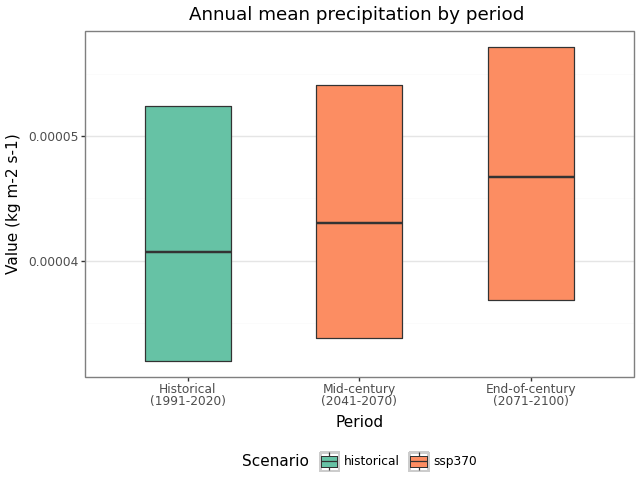
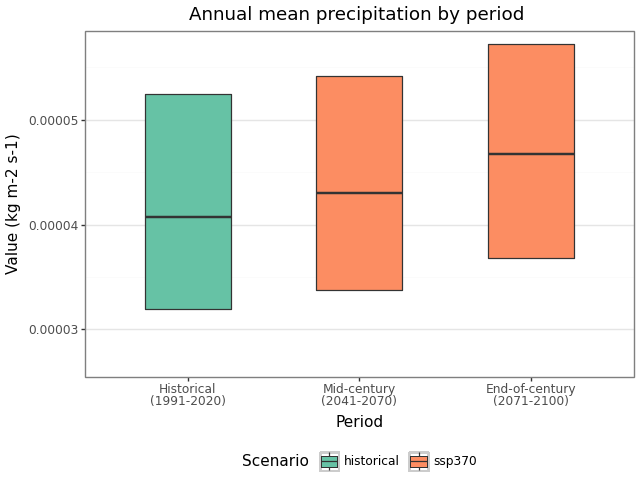
add ensemble statistics and change over models and update periodID values in netcdfs

diff --git a/calculate_model_ensemble_statistics_and_change.py b/calculate_model_ensemble_statistics_and_change.py
@@ -1,0 +1,216 @@
+import csv
+import matplotlib.pyplot as plt
+from pathlib import Path
+from glob import glob
+import xarray as xr
+from xclim import ensembles
+import yaml
+from KAPy.workflow.KAPy.save_change_to_netcdf import save_change_to_netcdf
+from KAPy.workflow.KAPy.plots import makeBoxplot
+
+
+def calculate_ensemble_mean(
+    indicator_id: str, scenario: str, ensemble_filename: str | Path, config: dict, CMIP_version: None | int = None
+):
+    current_dir = Path(__file__).parent
+    if "hist" not in scenario:
+        periods = [2, 3]
+        search_dir = current_dir / "KAPy/results/7.netcdf"
+        netcdf_files = glob(f"{search_dir}/**/{indicator_id}_{scenario}*.nc", recursive=True)
+    else:
+        periods = [1, 2, 3]
+        search_dir = current_dir / "KAPy/results/4.ensstats"
+
+        match CMIP_version:
+            case 6:
+                netcdf_files = glob(f"{search_dir}/**/{indicator_id}_CMIP6_{scenario}*.nc", recursive=True)
+            case 5:
+                netcdf_files = glob(f"{search_dir}/**/{indicator_id}_CMIP5_{scenario}*.nc", recursive=True)
+            case _:
+                print("Invalid CMIP version")
+                return
+
+    ensemble_ds = xr.open_mfdataset(netcdf_files, concat_dim="realization", combine="nested")
+    try:
+        ensemble_ds = ensemble_ds.drop_vars(
+            [
+                "indicator_stdev",
+                "indicator_min",
+                "indicator_max",
+                "indicator",
+                "indicator_mean_change",
+                "indicator_mean_relative_change",
+            ]
+        )
+    except ValueError:
+        ensemble_ds = ensemble_ds.drop_vars(
+            [
+                "indicator_stdev",
+                "indicator_min",
+                "indicator_max",
+                "indicator",
+            ]
+        )
+
+    ensemble_ds = ensemble_ds.rename_vars({"indicator_mean": "indicator"})
+    ensemble_ds_stats = ensembles.ensemble_mean_std_max_min(ensemble_ds)
+    ensemble_ds_percentiles = ensembles.ensemble_percentiles(
+        ensemble_ds, split=False, values=[float(x) for x in config["ensembles"].values()]
+    )
+
+    ensemble_ds_result = xr.merge([ensemble_ds_stats, ensemble_ds_percentiles])
+    ensemble_ds_result = ensemble_ds_result.assign(periodID=periods)
+    ensemble_ds_result.to_netcdf(ensemble_filename)
+
+
+def plot_and_save_spatial_plot(ensemble_change_filename: str, figure_filename: str):
+    cmap = plt.cm.PuOr
+    alpha = 0.8
+    plot_limits = [-20, 20]
+    ensemble_change_ds = xr.open_dataset(ensemble_change_filename)
+
+    for period in [2, 3]:
+        plt.figure()
+        ensemble_change_ds["indicator_mean_relative_change"].sel(periodID=period).plot(
+            robust=True, vmin=plot_limits[0], vmax=plot_limits[-1], cmap=cmap, alpha=alpha
+        )
+        plt.savefig(f"{figure_filename}_period_{period}.png")
+
+
+def create_config(
+    path_to_config: Path, path_to_periods: Path, scenario: str, indicator_id: str, units: str, indicator_name: str
+) -> tuple[dict, str, str | None]:
+    config = {}
+    with open(path_to_config) as f:
+        config["ensembles"] = yaml.safe_load(f)["ensembles"]
+
+    config["periods"] = {}
+    with open(path_to_periods) as f:
+        periods_config = csv.reader(f, delimiter="\t")
+        for line_no, line in enumerate(periods_config):
+            if line_no == 0:
+                keys = line
+                continue
+
+            if "#" in line[0]:
+                continue
+
+            config["periods"][f"{line_no}"] = {keys[idx]: line[idx] for idx in range(0, 4)}
+
+    config["indicators"] = {indicator_id: {"units": units, "name": indicator_name}}
+    config["scenarios"] = {
+        "historical": {
+            "id": "historical",
+            "description": "Historical values",
+            "scenarioStrings": ["_hist_"],
+            "hexcolour": "66C2A5",
+        }
+    }
+
+    CMIP5_scenarios = ["rcp26", "rcp45"]
+    CMIP6_scenarios = ["ssp370"]
+    if scenario in CMIP5_scenarios:
+        CMIP_version = 5
+        scenarios = CMIP5_scenarios
+        config["scenarios"]["rcp26"] = {
+            "id": "rcp26",
+            "description": "Low emissions scenario (RCP2.6)",
+            "scenarioStrings": ["_rcp26_"],
+            "hexcolour": "FC8D62",
+        }
+        config["scenarios"]["rcp45"] = {
+            "id": "rcp45",
+            "description": "Medium emissions scenario (RCP4.5)",
+            "scenarioStrings": ["_rcp45_"],
+            "hexcolour": "8DA0CB",
+        }
+    elif scenario in CMIP6_scenarios:
+        CMIP_version = 6
+        scenarios = CMIP6_scenarios
+        config["scenarios"]["ssp370"] = {
+            "id": "ssp370",
+            "description": "2nd worst scenario (SSP370)",
+            "scenarioStrings": ["_ssp370_"],
+            "hexcolour": "FC8D62",
+        }
+    else:
+        CMIP_version = None
+
+    return config, scenarios, CMIP_version
+
+
+def create_csv(netcdf_statistics_filename: str, csv_filename: str):
+    ds = xr.open_dataset(netcdf_statistics_filename)
+    df_indicator_mean = ds.indicator.mean(dim=["Yc", "Xc"]).to_dataframe()
+    df_indicator_mean.to_csv(csv_filename)
+
+
+if __name__ == "__main__":
+    current_dir = Path(__file__).parent
+    scenario = "rcp45"
+    indicator_id = "102"
+    units = "kg m-2 s-1"
+    indicator_name = "Annual mean precipitation by period"
+
+    path_to_config = current_dir / "KAPy/config/config_testcase_1.yaml"
+    path_to_periods = current_dir / "KAPy/config/periods_testcase_1.tsv"
+
+    # Create config for this scenario/CMIP version, periods and indicator
+    config, scenarios, CMIP_version = create_config(
+        path_to_config, path_to_periods, scenario, indicator_id, units, indicator_name
+    )
+
+    # Note on csv filenames:
+    # scenario has to be third word, since makeBoxplot uses the third word in the filename
+    # for mapping the scenarios in the legend
+    path_to_save_netcdf = current_dir / f"testcase_1_results/model_ensembles/CMIP{CMIP_version}"
+    statistics_filenames = [
+        path_to_save_netcdf / f"{scenario}/{indicator_id}_{scenario}_ensemble_statistics.nc" for scenario in scenarios
+    ]
+    statistics_csv_filenames = [
+        f"{path_to_save_netcdf}/{scenario}/{indicator_id}_ensemble_{scenario}_statistics.csv" for scenario in scenarios
+    ]
+    change_filenames = [
+        path_to_save_netcdf / f"{scenario}/{indicator_id}_{scenario}_ensemble_change.nc" for scenario in scenarios
+    ]
+    historical_filename = path_to_save_netcdf / f"{indicator_id}_CMIP{CMIP_version}_historical_statistics.nc"
+    historical_csv_filename = f"{path_to_save_netcdf}/{indicator_id}_CMIP{CMIP_version}_historical_statistics.csv"
+
+    # Calculate ensemble statistics over models and save to netcdf
+    if not historical_filename.exists():
+        calculate_ensemble_mean(indicator_id, "historical", historical_filename, config, CMIP_version)
+
+    for scenario, ensemble_statistics in zip(scenarios, statistics_filenames):
+        if not ensemble_statistics.exists():
+            calculate_ensemble_mean(indicator_id, scenario, ensemble_statistics, config)
+
+    # Calculate ensemble change over models and save to netcdf
+    for scenario, ensemble_change, ensemble_statistics in zip(scenarios, change_filenames, statistics_filenames):
+        if not ensemble_change.exists():
+            ensemble_stats_files = [str(ensemble_statistics), str(historical_filename)]
+            netcdf_filename = [str(ensemble_change)]
+            save_change_to_netcdf(config, indicator_id, scenario, ensemble_stats_files, netcdf_filename)
+
+        # Plot spatial plot from ensemble change netcdf
+        plot_and_save_spatial_plot(
+            str(ensemble_change),
+            f"{path_to_save_netcdf}/{scenario}/{indicator_id}_{scenario}_ensemble_mean_relative_change",
+        )
+
+    # Plot box plot from ensemble statistics netcdf
+    csv_files_for_boxplot = [filename for filename in statistics_csv_filenames]
+    csv_files_for_boxplot.append(historical_csv_filename)
+
+    create_csv(historical_filename, historical_csv_filename)
+
+    for scenario, ensemble_statistics, ensemble_csv in zip(scenarios, statistics_filenames, statistics_csv_filenames):
+        ds_scenario = xr.open_dataset(ensemble_statistics)
+        df_indicator_mean = ds_scenario.indicator.mean(dim=["Yc", "Xc"]).to_dataframe()
+        df_indicator_mean.to_csv(ensemble_csv)
+
+    makeBoxplot(
+        config,
+        indicator_id,
+        csv_files_for_boxplot,
+        [f"{path_to_save_netcdf}/{indicator_id}_CMIP{CMIP_version}_ensemble_boxplot.png"],
+    )

diff --git a/plot_change.py b/plot_change.py
@@ -2,74 +2,83 @@ import matplotlib.pyplot as plt
 import xarray as xr
 from pathlib import Path
 
-indicator = "102"
-model = "noresm_hclim"
-cmip5_models = [
-    "cnrm_aladin",
-    "ecearth_cclm",
-    "ecearth_rca",
-    "ecearth_hirham",
-    "hadgem_rca",
-    "hadgem_remo",
-    "mpi_cclm",
-    "mpi_remo",
-    "noresm_rca",
-    "noresm_remo",
-]
-cmip6_models = [
-    "cnrm_hclim",
-    "cnrm_racmo",
-    "ecearth_racmo",
-    "ecearthveg_cclm",
-    "ecearthveg_hclim",
-    "miroc_icon",
-    "mpi_hclim",
-    "mpi_icon",
-    "mpi_racmo",
-    "noresm_hclim",
-]
 
-if model in cmip5_models:
-    scenarios = ["rcp26", "rcp45"]
-elif model in cmip6_models:
-    scenarios = ["ssp370"]
-else:
-    raise KeyError
+def plot_and_save_change(model: str, indicator_id: str):
 
-path_to_netcdfs = Path(
-    f"/lustre/storeC-ext/users/klimakverna/development/Klimakverna-pilot-KAPy/KAPy/results/7.netcdf/{model}"
-)
-path_to_save_figures = Path(
-    f"/lustre/storeC-ext/users/klimakverna/development/Klimakverna-pilot-KAPy/testcase_1_results/{model}"
-)
-files = [
-    # "/lustre/storeC-ext/users/kin2100/MET/annmeans_bc/far_future_mean/pr/30yrmean_ff_ecearth-r12i1p1-cclm_rcp26_3dbc-eqm-sn2018v2005_rawbc_norway_1km_pr_annual_merged.nc"
-    f"{path_to_netcdfs}/{indicator}_{scenario}_change_periods.nc"
-    for scenario in scenarios
-]
+    cmip5_models = [
+        "cnrm_aladin",
+        "ecearth_cclm",
+        "ecearth_hirham",
+        "ecearth_rca",
+        "hadgem_rca",
+        "hadgem_remo",
+        "mpi_cclm",
+        "mpi_remo",
+        "noresm_rca",
+        "noresm_remo",
+    ]
+    cmip6_models = [
+        "cnrm_hclim",
+        "cnrm_racmo",
+        "ecearth_racmo",
+        "ecearthveg_cclm",
+        "ecearthveg_hclim",
+        "miroc_icon",
+        "mpi_hclim",
+        "mpi_icon",
+        "mpi_racmo",
+        "noresm_hclim",
+    ]
 
-cmap = plt.cm.PuOr
-alpha = 0.8
-# fig = plt.figure()
-# ds = xr.open_dataset(files[0])
-# print(ds)
-# ds["pr"].isel(time=0).plot(robust=True, vmin=-1e-5, vmax=1e-5, cmap=cmap, alpha=alpha)
-# plt.savefig(f"{path_to_save_figures}/{indicator}_{scenario[0]}_pr_{model}")
+    if model in cmip5_models:
+        scenarios = ["rcp26", "rcp45"]
+    elif model in cmip6_models:
+        scenarios = ["ssp370"]
+    else:
+        print(f"\n'{model}' is not a valid model name\n")
+        return
 
-for sceanrio_idx, filename in enumerate(files):
-    ds = xr.open_dataset(filename)
-    print(ds)
-    for period in range(0, len(scenarios) + 1):
-        plt.figure()
-        ds["indicator_mean"].isel(periodID=period).plot(robust=True, vmin=-1e-5, vmax=1e-5, cmap=cmap, alpha=alpha)
-        plt.savefig(
-            f"{path_to_save_figures}/{indicator}_{scenarios[sceanrio_idx]}_indicator_mean_{model}_period_{period}"
-        )
+    path_to_netcdfs = Path(
+        f"/lustre/storeC-ext/users/klimakverna/development/Klimakverna-pilot-KAPy/KAPy/results/7.netcdf/{model}"
+    )
+    path_to_save_figures = Path(
+        f"/lustre/storeC-ext/users/klimakverna/development/Klimakverna-pilot-KAPy/testcase_1_results/{model}"
+    )
+    files = [f"{path_to_netcdfs}/{indicator_id}_{scenario}_change_periods.nc" for scenario in scenarios]
 
-        fig = plt.figure()
-        ds["indicator_mean_rel"].isel(periodID=period).plot(robust=True, vmin=-20, vmax=20, cmap=cmap, alpha=alpha)
-        plt.savefig(
-            f"{path_to_save_figures}/{indicator}_{scenarios[sceanrio_idx]}_indicator_mean_rel_{model}_period_{period}"
-        )
+    cmap = plt.cm.PuOr
+    alpha = 0.8
+    plot_variables = ["indicator_mean_change", "indicator_mean_relative_change"]
+    plot_limits = [[-1e-5, 1e-5], [-20, 20]]
+    periods = [2, 3]
 
-plt.show()
+    for sceanrio_idx, filename in enumerate(files):
+        try:
+            ds = xr.open_dataset(filename)
+            print(ds)
+        except FileNotFoundError:
+            print(f"\nCan't find netcdf file '{filename}'\n")
+            return
+
+        for period in periods:
+            for variable, limit in zip(plot_variables, plot_limits):
+                plt.figure()
+                ds[variable].sel(periodID=period).plot(
+                    robust=True, vmin=limit[0], vmax=limit[-1], cmap=cmap, alpha=alpha
+                )
+                try:
+                    plt.savefig(
+                        f"{path_to_save_figures}/{indicator_id}_{scenarios[sceanrio_idx]}_{variable}_{model}_period_{period}"
+                    )
+                except FileNotFoundError:
+                    print(
+                        f"\nDidn't manage to save plot for model '{model}', indicator '{indicator_id}', "
+                        f"scenario '{scenarios[sceanrio_idx]}', variable '{variable}' and period '{period}'. "
+                        f"\nCheck that '{path_to_save_figures}' exists\n"
+                    )
+
+
+if __name__ == "__main__":
+    model = "hadgem_remo"
+    indicator = "102"
+    plot_and_save_change(model, indicator)
